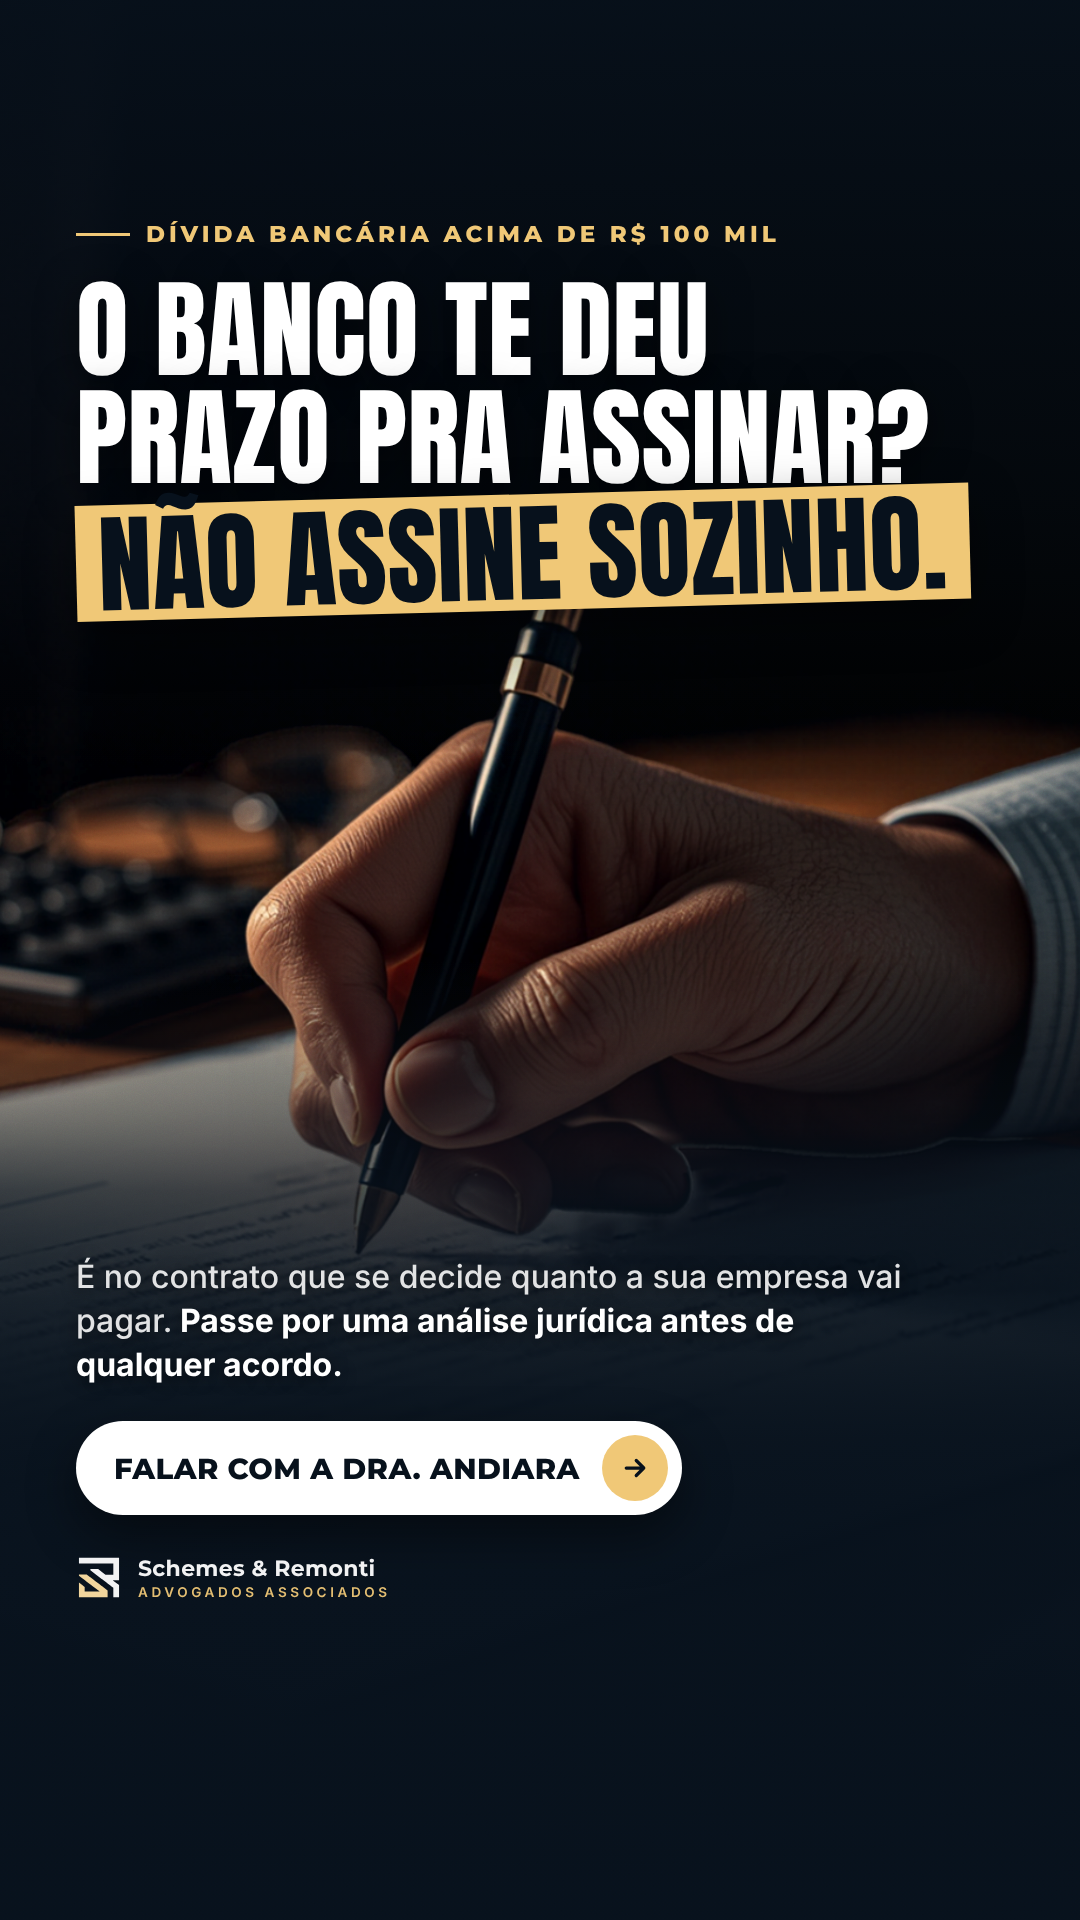
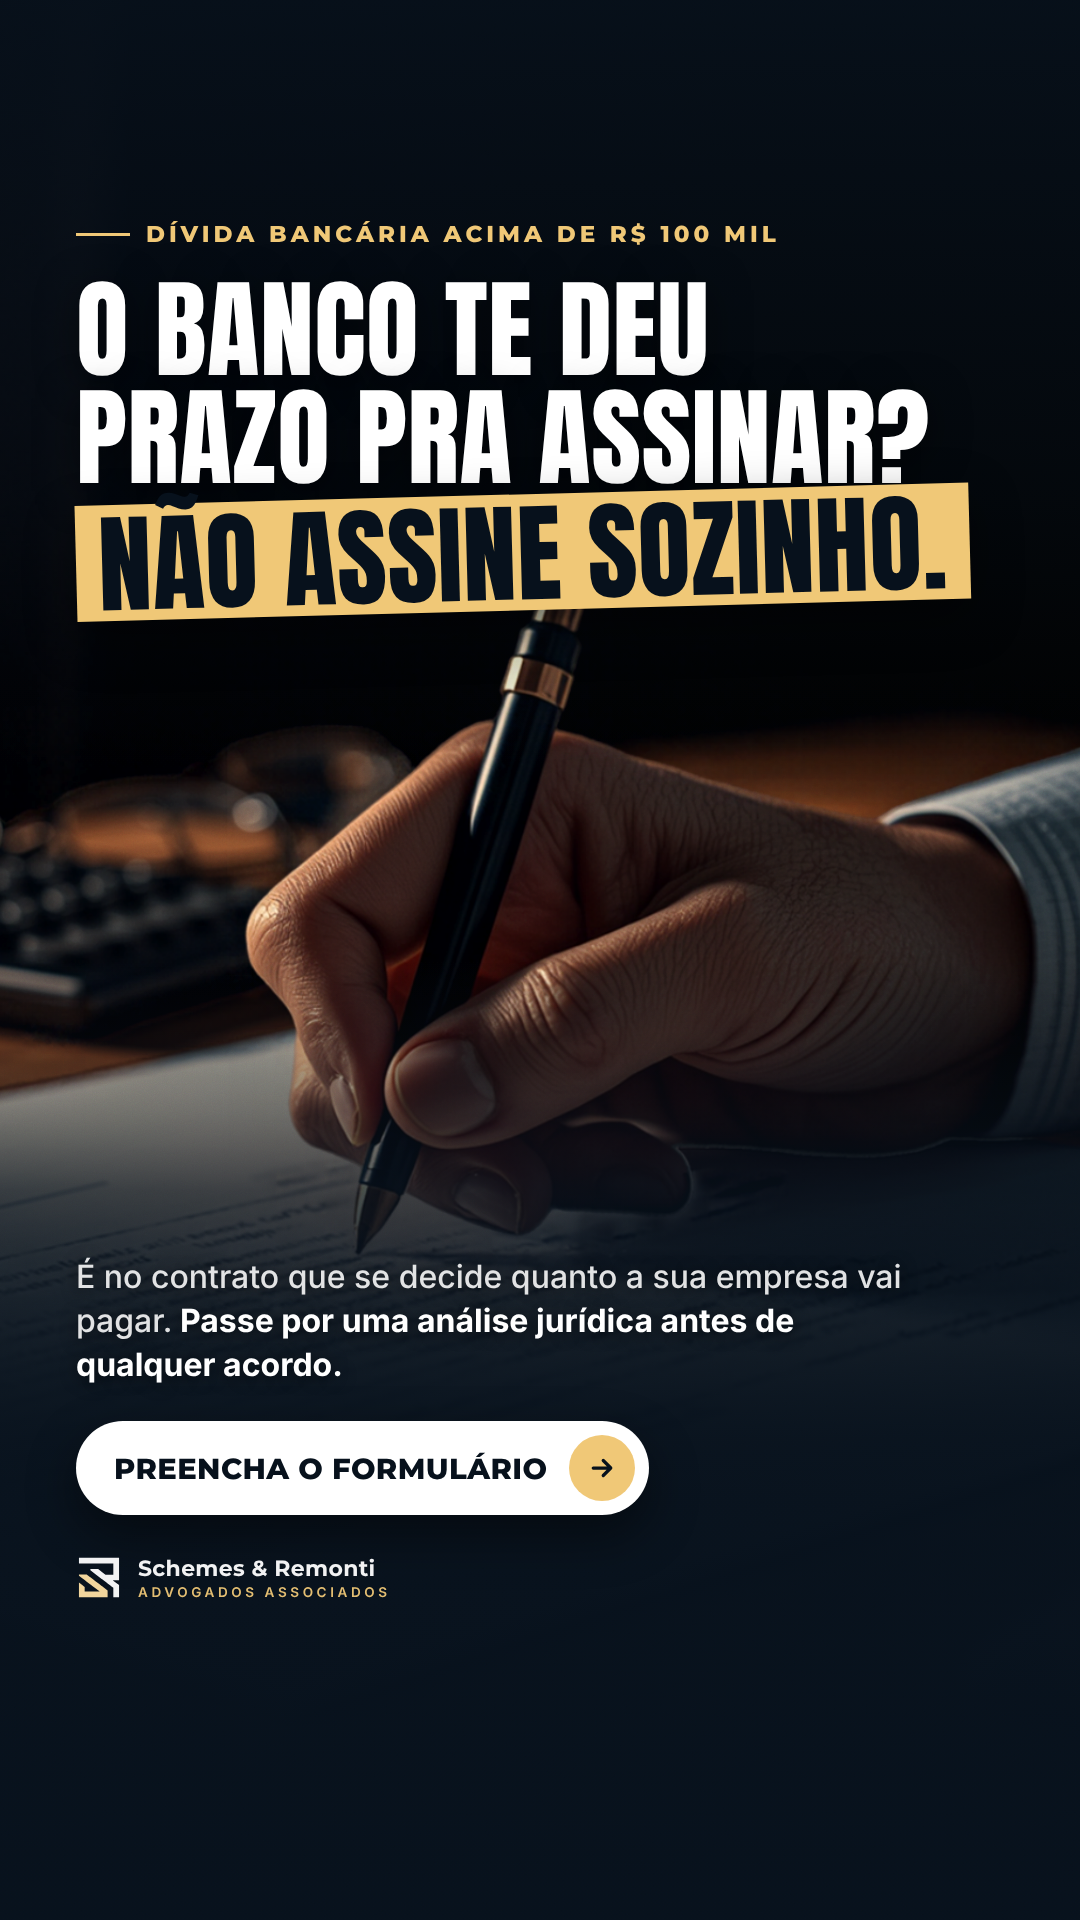
Troca CTA dos estáticos para formulário e atualiza copies
Claude-Session: https://claude.ai/code/session_01C88VYRz3xL9mgd2aqqbENV

Changed region(s): [[0.1222, 0.7188, 0.6417, 0.8125]]

diff --git a/estaticos-schemes-remonti/estatico.html b/estaticos-schemes-remonti/estatico.html
@@ -112,14 +112,14 @@ const ADS = {
     kicker: "Empresário com dívida no banco",
     h1: 'A dívida passou<br>de <span class="g">R$ 100 mil?</span><br><span class="band">Hora do advogado.</span>',
     sub: 'Renegociar sozinho só alonga o prazo e aumenta o custo.<br><b>Coloque seus contratos na mão de quem defende empresas.</b>',
-    cta: "Falar com o Dr. Gregory"
+    cta: "Preencha o formulário"
   },
   andiara: {
     scene: "s2",
     kicker: "Dívida bancária acima de R$ 100 mil",
     h1: 'O banco te deu<br>prazo pra assinar?<br><span class="band">Não assine sozinho.</span>',
     sub: 'É no contrato que se decide quanto a sua empresa vai pagar.<br><b>Passe por uma análise jurídica antes de qualquer acordo.</b>',
-    cta: "Falar com a Dra. Andiara"
+    cta: "Preencha o formulário"
   }
 };
 const q = new URLSearchParams(location.search);

diff --git a/estaticos-schemes-remonti/COPY.md b/estaticos-schemes-remonti/COPY.md
@@ -1,53 +1,74 @@
-# Estáticos: Gestão de Passivo (Schemes & Remonti), v3
+# Estáticos: Gestão de Passivo (Schemes & Remonti)
 
 Conta: **Schemes & Remonti Advogados Associados** (act 1714063692823828)
-Público: empresário com dívida bancária acima de R$ 100 mil, já decidindo procurar advogado.
+Objetivo: cadastro (formulário instantâneo) · CTA do botão: **Saiba mais**
+Público: empresário com dívida bancária acima de R$ 100 mil.
 
-| Arquivo | Formato |
+| Arquivo | Peça |
 |---|---|
-| `gregory-feed-4x5.png` / `gregory-stories-9x16.png` | "A dívida passou de R$ 100 mil? Hora do advogado." (empresário no escritório à noite) |
-| `andiara-feed-4x5.png` / `andiara-stories-9x16.png` | "O banco te deu prazo pra assinar? Não assine sozinho." (mão prestes a assinar o contrato) |
-
-Fotos de fundo geradas no Canva (assets/foto-*.png); sem fotos dos advogados.
+| `gregory-feed-4x5.png` / `gregory-stories-9x16.png` | Estático 1: "A dívida passou de R$ 100 mil? Hora do advogado." |
+| `andiara-feed-4x5.png` / `andiara-stories-9x16.png` | Estático 2: "O banco te deu prazo pra assinar? Não assine sozinho." |
 
 Editar: `estatico.html` · gerar PNGs: `node render.js`
 
 ---
 
-## Dr. Gregory
+## Estático 1: Hora do advogado
 
-**Título:** A dívida passou de R$ 100 mil? Fale com o Dr. Gregory
+**Título:** A dívida da empresa passou de R$ 100 mil? 🚨
 
-**Texto:**
+**Descrição:** Análise do passivo bancário da sua empresa
 
-Empresário, antes de assinar mais um acordo com o banco, fale com um advogado. ⚠
+**Texto principal:**
 
-Quando a dívida passa de R$ 100 mil, a proposta do gerente costuma alongar o prazo e aumentar o custo total. E o patrimônio de quem assinou como avalista continua exposto.
+A dívida da sua empresa com o banco passou de R$ 100 mil? 🚨
 
-Eu sou o Dr. Gregory Remonti, sócio da Schemes & Remonti. Analiso pessoalmente os contratos da sua empresa (capital de giro, cheque especial, empréstimos) e monto a estratégia antes do próximo passo do banco.
+Nessa fase, renegociar sozinho com o gerente costuma só alongar o prazo e aumentar o custo total 📈
 
-📲 Toque em "Enviar mensagem" e fale direto comigo.
+E quem assinou como avalista continua com o patrimônio pessoal na linha de risco ⚠
 
-⚖ Dr. Gregory Remonti · OAB/RS 128.236
+É hora de colocar seus contratos nas mãos de um advogado especialista em passivo bancário empresarial ⚖
 
----
+📋 Toque em "Saiba mais" e preencha o formulário. Nossa equipe analisa o seu caso e entra em contato com você.
 
-## Dra. Andiara
+**Variação curta:**
 
-**Título:** O banco te deu prazo pra assinar? Não assine sozinho
+Dívida bancária acima de R$ 100 mil não se resolve no balcão do banco 🏦
 
-**Texto:**
+Cada novo acordo sem estratégia alonga o prazo e aumenta o custo 📈
 
-O banco mandou uma proposta de renegociação e deu prazo pra assinar? 🏦
+Fale com advogados especialistas em passivo bancário empresarial ⚖
 
-Antes de assinar, olhe a última linha: o total a pagar. Muitas vezes ele passa do dobro da dívida, e ainda vem com aval dos sócios e imóvel em garantia.
-
-Eu sou a Dra. Andiara Schemes, sócia da Schemes & Remonti. Me mostre a proposta e os contratos da sua empresa. Eu analiso cada cláusula e te digo o caminho antes de você assinar qualquer coisa.
-
-📲 Toque em "Enviar mensagem" e fale comigo.
-
-⚖ Dra. Andiara Schemes · OAB/RS 91.691
+📋 Toque em "Saiba mais" e preencha o formulário.
 
 ---
 
-CTA: **Enviar mensagem** (WhatsApp). Sem promessa de resultado nem preço (Provimento 205/2021).
+## Estático 2: Não assine sozinho
+
+**Título:** O banco te deu prazo pra assinar? Não assine sozinho ✍
+
+**Descrição:** Análise jurídica antes de qualquer acordo
+
+**Texto principal:**
+
+O banco te deu prazo pra assinar um novo acordo? ⏳
+
+O prazo curto não é por acaso: a pressa favorece o banco, não a sua empresa 🏦
+
+Em dívidas acima de R$ 100 mil, é no contrato que se decide quanto você vai pagar: juros, encargos e garantias 📄
+
+Antes de assinar, coloque tudo sob análise jurídica ⚖
+
+📋 Toque em "Saiba mais" e preencha o formulário para falar com a nossa equipe.
+
+**Variação curta:**
+
+Recebeu uma proposta do banco e precisa assinar até sexta? ⏳
+
+Não assine antes de entender juros, encargos e garantias do contrato ⚠
+
+📋 Toque em "Saiba mais" e preencha o formulário para falar com um advogado especialista.
+
+---
+
+OAB (Provimento 205/2021): sem promessa de resultado, sem preço, sem "desconto garantido".
